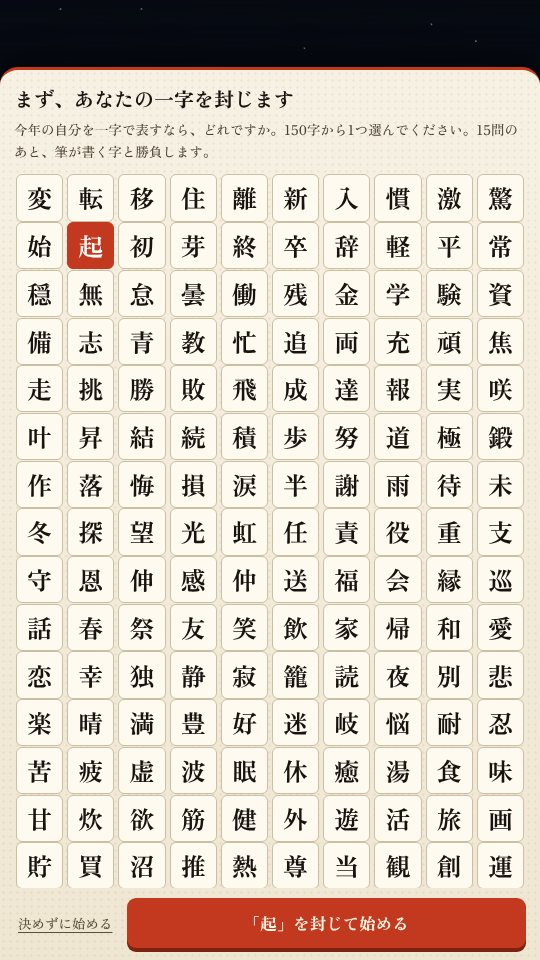
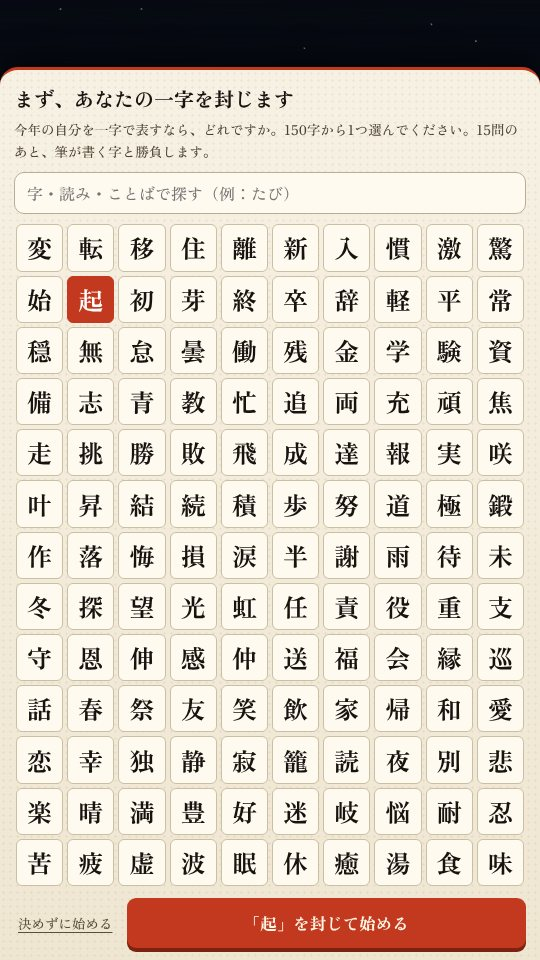
今年の一字、当てます：一覧に検索らんを追加、結果画面のスクロールを直す
- 一字を封じる一覧に検索らん（字・読み・ことばで探せる。Enterで1字なら選ぶ）
- 結果画面：iPhoneで指のスクロールが効かない原因になりうる設定を直す（画面がタッチを受け取る・すりガラスをはずす）
- 結果画面：下に続きがある時は「▼ 次点の字・シェアは下にあります」を出す
- 横向き・小さい画面で一覧の字がつぶれていたのを直す
- 説明ページの文と画像を更新

Claude-Session: https://claude.ai/code/session_012oTrt6jp9JbB1CXCuP4J8E

Changed region(s): [[0.0296, 0.1875, 0.9778, 0.9375]]

diff --git a/kotoshi-no-ichiji/index.html b/kotoshi-no-ichiji/index.html
@@ -71,8 +71,8 @@ button{font:inherit;color:inherit;cursor:pointer}
 #pick{align-items:flex-end;justify-content:center;background:rgba(7,11,20,.5)}
 .psheet{width:100%;max-width:560px;max-height:93%;display:flex;flex-direction:column;background:var(--washi);background-image:radial-gradient(rgba(120,96,60,.08) 1px,transparent 1.2px),linear-gradient(180deg,#f7f1e4,#efe6d2);background-size:7px 7px,100% 100%;border-radius:18px 18px 0 0;border-top:3px solid var(--shu);padding:14px 14px calc(12px + env(safe-area-inset-bottom));box-shadow:0 -10px 30px rgba(0,0,0,.45)}
 .psheet h2{margin:0;font-size:20px;font-weight:900}.psheet p{margin:6px 0 10px;font-size:13.5px;line-height:1.6;color:#4d4233}
-.kgrid{flex:1;min-height:0;overflow-y:auto;-webkit-overflow-scrolling:touch;display:grid;grid-template-columns:repeat(10,minmax(0,1fr));gap:4px;padding:2px;align-content:start}
-.kg{aspect-ratio:1;min-width:0;min-height:0;overflow:hidden;line-height:1;padding:0;border:1px solid #cbbfa3;border-radius:6px;background:#fffaf0;font-size:min(5.4vw,25px);font-weight:700;display:grid;place-items:center}
+.kgrid{flex:1;min-height:0;overflow-y:auto;-webkit-overflow-scrolling:touch;display:grid;grid-template-columns:repeat(10,minmax(0,1fr));grid-auto-rows:max-content;gap:4px;padding:2px;align-content:start}
+.kg{aspect-ratio:1;min-width:0;overflow:hidden;line-height:1;padding:0;border:1px solid #cbbfa3;border-radius:6px;background:#fffaf0;font-size:min(5.4vw,25px);font-weight:700;display:grid;place-items:center}
 .kg.sel{background:var(--shu);border-color:var(--shu);color:#fff}
 .pfoot{display:flex;gap:10px;align-items:center;margin-top:10px}.pfoot .btn{flex:1;font-size:min(16.5px,4.3vw);white-space:nowrap;padding:13px 6px}.pfoot .btn:disabled{background:#b9ad93;box-shadow:0 4px 0 #9a8f78;color:#f3ecdd}.pfoot .lnk{flex:none}
 #fuu{position:fixed;top:calc(10px + env(safe-area-inset-top));right:12px;z-index:4;width:40px;height:40px;border-radius:6px;background:var(--shu);color:#fff7e6;font-weight:900;font-size:21px;display:grid;place-items:center;box-shadow:0 2px 8px rgba(0,0,0,.5);transform:rotate(5deg);pointer-events:none}
@@ -87,11 +87,17 @@ button{font:inherit;color:inherit;cursor:pointer}
 .vhead{margin:0 0 9px;font-size:22px;font-weight:900;color:var(--shu);line-height:1.4}.vhead span{display:inline-block}
 .dvs{display:flex;align-items:center;justify-content:center;gap:12px;margin-bottom:8px}.dvs div{text-align:center;font-size:11.5px;font-weight:700;color:#6b5e49}.dvs canvas{width:86px;height:86px;display:block;background:#fffaf0;border:1px solid #d9cdb3;border-radius:8px;margin-bottom:3px}.dvs b{font-size:22px}
 @media (orientation:portrait) and (max-height:640px){.dcard canvas{width:84px;height:84px}#duel{bottom:calc(50px + env(safe-area-inset-bottom));gap:10px}#verdict b{font-size:36px}.lead{font-size:13.5px}}
+#more{position:fixed;left:50%;bottom:calc(14px + env(safe-area-inset-bottom));z-index:6;transform:translateX(-50%);padding:8px 16px;border-radius:999px;background:rgba(243,236,221,.94);color:#3a3128;font-size:13.5px;font-weight:700;white-space:nowrap;box-shadow:0 4px 16px rgba(0,0,0,.45);pointer-events:none;animation:bob 1.4s ease-in-out infinite}
+@keyframes bob{50%{transform:translate(-50%,-5px)}}
+/* 一字の一覧の検索 */
+.ksearch{display:flex;gap:6px;margin:0 0 8px}.ksearch input{flex:1;min-width:0;height:42px;padding:0 12px;font:inherit;font-size:16px;border:1.5px solid #b9ad93;border-radius:10px;background:#fffaf0;color:var(--sumi);-webkit-user-select:text;user-select:text;-webkit-appearance:none;appearance:none}
+.ksearch input:focus{outline:none;border-color:var(--shu)}.ksearch input::-webkit-search-cancel-button{-webkit-appearance:none;display:none}.ksearch button{flex:none;width:42px;height:42px;border:1.5px solid #b9ad93;border-radius:10px;background:#fffaf0;font-size:18px;padding:0}
+.knone{margin:6px 2px;font-size:13.5px;line-height:1.6;color:#6b5e49}
 #seen{color:#f8f1e1;font-size:26px;font-weight:900;letter-spacing:.3em;text-shadow:0 2px 10px #000;transition:opacity .5s}
 #skip{color:#cfc6b2;font-size:12.5px;letter-spacing:.2em;opacity:.8}
 #paper2d{max-width:min(86vw,60vh);border-radius:4px;box-shadow:0 10px 40px rgba(0,0,0,.5)}
 /* 結果 */
-#result{overflow-y:auto;-webkit-overflow-scrolling:touch;background:rgba(7,10,17,.86);-webkit-backdrop-filter:blur(3px);backdrop-filter:blur(3px);justify-content:center;align-items:flex-start}
+#result{pointer-events:auto;overscroll-behavior:contain;overflow-y:auto;background:rgba(7,10,17,.9);justify-content:center;align-items:flex-start}
 .rin{width:100%;max-width:520px;padding:calc(16px + env(safe-area-inset-top)) 14px calc(28px + env(safe-area-inset-bottom));display:flex;flex-direction:column;gap:12px}
 #card{width:100%;height:auto;border-radius:6px;box-shadow:0 10px 34px rgba(0,0,0,.55);display:block}
 .box{background:var(--washi);border-radius:10px;padding:13px 14px}
@@ -172,11 +178,14 @@ button{font:inherit;color:inherit;cursor:pointer}
   <div class="psheet">
     <h2>まず、あなたの一字を封じます</h2>
     <p>今年の自分を一字で表すなら、どれですか。150字から1つ選んでください。15問のあと、筆が書く字と勝負します。</p>
+    <div class="ksearch"><input id="kq" type="search" placeholder="字・読み・ことばで探す（例：たび）" autocomplete="off" enterkeyhint="search" aria-label="一字を探す"><button id="kqx" class="hide" aria-label="検索を消す">×</button></div>
+    <p class="knone hide" id="knone">見つかりませんでした。読み（たび）や、ことば（旅行・仕事）でも探せます。</p>
     <div class="kgrid" id="kgrid"></div>
     <div class="pfoot"><button class="lnk" id="pickSkip">決めずに始める</button><button class="btn" id="pickOk" disabled>字を選んでください</button></div>
   </div>
 </div>
 <div id="fuu" class="hide" aria-label="一字を封じてあります">封</div>
+<div id="more" class="hide">▼ 次点の字・シェアは下にあります</div>
 
 <div id="remain" class="hide"><span>のこり<b id="remN">150</b>字</span></div>
 <div id="ask" class="screen hide">
@@ -812,15 +821,32 @@ const Sound = { ctx: null, on: store('kotoshi.mute') !== '1',
 let state = 'title', picks = [], alt = [], qi = 0, gameT = 0, wait = -1, busy = false, result = null, rv = null, judge = null, mineCh = '', resultShownAt = 0, friendK = -1;
 let mineK = -1, pickSel = -1, demo = null; // mineK＝封じた字の番号（−1は封なし）／pickSel＝一覧で選択中の字／demo＝タイトルで筆が書いて見せている字
 const picksNow = () => picks.map(p => ({ q: p.q, a: p.a, alt: p.alt }));
-function setState(s) { state = s; $('title').classList.toggle('hide', s !== 'title'); $('ask').classList.toggle('hide', s !== 'ask'); $('remain').classList.toggle('hide', s !== 'ask'); $('reveal').classList.toggle('hide', s !== 'reveal'); $('result').classList.toggle('hide', s !== 'result'); $('mute').classList.toggle('hide', s === 'result' || s === 'pick'); $('pick').classList.toggle('hide', s !== 'pick'); $('fuu').classList.toggle('hide', !(s === 'ask' && mineK >= 0)); layoutCamera(false); }
+function setState(s) { state = s; $('title').classList.toggle('hide', s !== 'title'); $('ask').classList.toggle('hide', s !== 'ask'); $('remain').classList.toggle('hide', s !== 'ask'); $('reveal').classList.toggle('hide', s !== 'reveal'); $('result').classList.toggle('hide', s !== 'result'); $('mute').classList.toggle('hide', s === 'result' || s === 'pick'); $('pick').classList.toggle('hide', s !== 'pick'); $('more').classList.toggle('hide', s !== 'result'); $('fuu').classList.toggle('hide', !(s === 'ask' && mineK >= 0)); layoutCamera(false); }
 function reset(seed, mine) { // 最初からやり直す（タイトルを飛ばして1問目へ）。mine＝封じた字の番号（なければ −1）。リスタートもテストも同じものを使う
   state = 'ask'; mineK = mine >= 0 && mine < NK ? mine : -1; demo = null;
   picks = []; alt = Array(P.length).fill(false); qi = 0; wait = -1; busy = false; result = null; rv = null; judge = null; mineCh = ''; gameT = 0;
   clearPaper(); initFloat(seed || 1); brushRest(true); setState('ask'); showQuestion(); layoutCamera(true);
 }
-function openPick() { pickSel = -1; paintPick(); setState('pick'); $('kgrid').scrollTop = 0; }
+function openPick() { pickSel = -1; $('kq').value = ''; filterPick(); paintPick(); setState('pick'); $('kgrid').scrollTop = 0; }
 function paintPick() { [...$('kgrid').children].forEach((b, i) => b.classList.toggle('sel', i === pickSel)); const ok = $('pickOk'); ok.disabled = pickSel < 0; ok.textContent = pickSel < 0 ? '字を選んでください' : `「${KANJI[pickSel].c}」を封じて始める`; }
-function selectPick(i) { if (state !== 'pick' || !(i >= 0 && i < NK)) return; pickSel = i; Sound.tap(); paintPick(); }
+function selectPick(i) { if (state !== 'pick' || !(i >= 0 && i < NK)) return; pickSel = i; Sound.tap(); paintPick(); $('kq').blur(); }
+// 一覧の検索：字そのもの・読み（ひらがな/カタカナ）・説明文・その字につながる答えのことばで探す
+const hira = t => t.replace(/[\u30a1-\u30f6]/g, c => String.fromCharCode(c.charCodeAt(0) - 0x60));
+const SEEK_MORE = { mv: '引っ越し 引越し 一人暮らし ひっこし', nw: '入学 進学 就職 転職 転校 異動 新生活 しゅうしょく てんしょく', en: '卒業 退職 引退 そつぎょう', wk: '仕事 バイト 残業 しごと', sd: '勉強 受験 資格 試験 テスト べんきょう じゅけん', lv: '恋人 恋愛 彼氏 彼女 結婚 こいびと かれし かのじょ', os: '推し 推し活 オタク おし', tv: '旅行 遠出 海外 りょこう', et: 'ごはん グルメ', sl: '睡眠 寝る', ex: '運動 スポーツ 筋トレ', sv: '節約 貯金', sp: '買い物 出費', tr: '疲れ 寝不足', pt: '別れ', mt: '出会い' }; // ことばの追加（特徴ごと）
+const SEEK = KANJI.map(k => { const core = Object.entries(parseW(k.w)).filter(([, v]) => v >= 2).map(([t]) => t), words = core.map(t => SEEK_MORE[t] || '');
+  [...P, ...V].forEach(q => q.c.forEach(c => { const w = parseW(c.w); if (core.some(t => w[t] >= 2)) words.push(c.t); }));
+  return { yomi: hira(k.y).split('・').filter(Boolean), kun: k.y.split('・').filter(y => /^[\u3041-\u309f]+$/.test(y)), text: hira(k.s + ' ' + words.join(' ')) }; });
+const REN = { う: 'い', く: 'き', ぐ: 'ぎ', す: 'し', つ: 'ち', ぬ: 'に', ぶ: 'び', む: 'み', る: 'り' }; // 「おす」→「おし」のように、動詞の形が変わっても見つける
+function seekScore(i, qv) { // 0＝当てはまらない。大きいほど上に出す
+  if (qv.includes(KANJI[i].c)) return 3; const S2 = SEEK[i], kana = /^[\u3041-\u309f]+$/.test(qv);
+  if (S2.yomi.some(y => y.startsWith(qv) || (y.length >= 2 && qv.startsWith(y))) || S2.kun.some(y => (y.length >= 3 && /[うくすつぬむるぐぶい]$/.test(y) && qv.startsWith(y.slice(0, -1))) || (y.length >= 2 && qv.startsWith(y.slice(0, -1) + (REN[y.slice(-1)] || '×'))))) return 2; // 形が変わった読み（かわった・おし）は訓読みだけで見る
+  if ((!kana || qv.length >= 2) && S2.text.includes(qv)) return 1; return 0; }
+function filterPick() { const qv = hira($('kq').value.replace(/[\s　]/g, '')), btns = [...$('kgrid').children]; let n = 0;
+  const sh = document.querySelector('.psheet'); if (qv && !sh.style.minHeight && sh.offsetHeight) sh.style.minHeight = `min(${sh.offsetHeight}px, 100%)`; if (!qv) sh.style.minHeight = ''; // しぼっても一覧の高さが急に縮まないように（隠す前に測る）
+  btns.forEach((b, i) => { const sc = qv ? seekScore(i, qv) : 1; b.classList.toggle('hide', !sc); b.style.order = qv && sc ? String(3 - sc) : ''; if (sc) n++; });
+  $('knone').classList.toggle('hide', !!n); $('kqx').classList.toggle('hide', !qv); if (qv) $('kgrid').scrollTop = 0; return n; }
+function fitPick() { const v = window.visualViewport, el = $('pick'); if (!v) return; const kb = innerHeight - v.height; // スマホのキーボードが出ている間は、一覧をキーボードの上に収める
+  if (kb > 80 && state === 'pick') { el.style.top = v.offsetTop + 'px'; el.style.height = v.height + 'px'; el.style.bottom = 'auto'; } else { el.style.top = el.style.height = el.style.bottom = ''; } }
 function confirmPick(skip) { if (state !== 'pick' || (!skip && pickSel < 0)) return; if (skip) Sound.tap(); else Sound.stamp(); reset((Date.now() % 2147483646) | 0, skip ? -1 : pickSel); }
 // タイトル：筆が見本の字（リンクから来た人には友だちの字）を書いて見せる
 function startDemo(ki) { const k = Brush.prepare(STROKES[KANJI[ki].c], K_SIZE, { seed: seedOf(ki), paper: CONFIG.PAPER }); clearPaper(); demo = { ki, k, t: 0, prev: 0, T: clamp(k.total * 0.75, 2.0, 3.4), n: demo ? demo.n + 1 : 0 }; }
@@ -902,7 +928,7 @@ function showResult() {
   $('rNext').innerHTML = result.top.slice(1).map(i => `<div class="nx"><canvas width="116" height="116" data-k="${i}"></canvas><div><b>${KANJI[i].y}</b><span>${KANJI[i].s.split('。')[0]}。</span></div></div>`).join('');
   $('rNext').querySelectorAll('canvas').forEach(c => Brush.draw(c.getContext('2d'), STROKES[KANJI[+c.dataset.k].c], 6, 6, 104, { seed: seedOf(+c.dataset.k), color: CONFIG.INK, fast: true }));
   document.querySelectorAll('.jb').forEach(b => b.classList.remove('sel')); $('mine').classList.add('hide'); $('mineIn').value = ''; $('jmsg').textContent = '';
-  setState('result'); $('result').scrollTop = 0; resultShownAt = performance.now();
+  setState('result'); $('result').scrollTop = 0; resultShownAt = performance.now(); $('more').classList.toggle('hide', $('result').scrollHeight <= $('result').clientHeight + 60); // 下に続きがある時だけ合図を出す
   if (document.fonts && document.fonts.load) document.fonts.load('900 40px "Zen Old Mincho"').then(() => { if (state === 'result') drawCard($('card'), ki, cardNote(), !!d && d.verdict === 'hit'); }).catch(() => {});
 }
 const cardNote = () => { const d = result.duel; return d ? (d.verdict === 'hit' ? '封じた一字と同じでした' : `封じた一字は「${KANJI[d.k].c}」（150字中${d.rank}位）`) : mineCh ? `自分で選ぶなら「${mineCh}」` : ''; }; // カードの字の下に足す一行
@@ -941,6 +967,10 @@ async function saveImage() {
 function begin() { if (!resultReady()) return; Sound.init(); Sound.resume(); Sound.tap(); openPick(); }
 $('kgrid').innerHTML = KANJI.map((k, i) => `<button class="kg" data-i="${i}">${k.c}</button>`).join('');
 $('kgrid').addEventListener('click', e => { const b = e.target.closest('.kg'); if (b) selectPick(+b.dataset.i); });
+$('kq').addEventListener('input', filterPick); $('kq').addEventListener('keydown', e => { if (e.key !== 'Enter') return; e.preventDefault(); const vis = [...$('kgrid').children].filter(b => !b.classList.contains('hide')); if (vis.length === 1) selectPick(+vis[0].dataset.i); else $('kq').blur(); });
+$('kqx').addEventListener('click', () => { $('kq').value = ''; filterPick(); });
+if (window.visualViewport) { visualViewport.addEventListener('resize', fitPick); visualViewport.addEventListener('scroll', fitPick); }
+$('result').addEventListener('scroll', () => { if ($('result').scrollTop > 60) $('more').classList.add('hide'); }, { passive: true });
 $('pickOk').addEventListener('click', () => confirmPick(false)); $('pickSkip').addEventListener('click', () => confirmPick(true));
 $('startBtn').addEventListener('click', begin); $('againBtn').addEventListener('click', begin);
 $('choices').addEventListener('click', e => { const b = e.target.closest('.ch'); if (b) choose(+b.dataset.a); });
@@ -985,7 +1015,7 @@ window.__TEST__ = {
   keys: [],
   randomInput(r) { // タップだけのゲームなので、今の画面でできる操作を1つ選ぶ
     if (state === 'title') begin();
-    else if (state === 'pick') { if (r < 0.2) confirmPick(true); else { selectPick(Math.floor(r * NK)); confirmPick(false); } }
+    else if (state === 'pick') { if (r < 0.1) { $('kq').value = ['たび', '忙', 'しごと', 'かわった', 'zz'][Math.floor(r * 50)]; filterPick(); } else if (r < 0.25) confirmPick(true); else { $('kq').value = ''; filterPick(); selectPick(Math.floor(r * NK)); confirmPick(false); } }
     else if (state === 'ask' && !busy) { if (r > 0.93) swap(); else if (r > 0.88) back(); else choose(Math.floor(r / 0.88 * 4)); }
     else if (state === 'reveal' && r > 0.97) skipReveal();
     else if (state === 'result') { if (r < 0.3 && !result.duel) setJudge(['hit', 'near', 'miss'][Math.floor(r / 0.1)]); }
@@ -1003,7 +1033,7 @@ window.__TEST__ = {
     const want = state === 'ask' ? CONFIG.KEEP[Math.min(picks.length, CONFIG.KEEP.length - 1)] : null; if (want !== null && fl.filter(f => f.alive).length !== want) v.push('のこりの字数が合わない ' + fl.filter(f => f.alive).length + '≠' + want);
     if (state === 'result') { if (!result || result.top.length !== 3) v.push('結果がない'); else if (result.why.length !== P.length || !result.why.every(w => fin(w.v)) || !result.shape.every(fin)) v.push('15問の効き方か一年の形が数でない'); else { const r = S.rank(picksNow()); if (r[0][1] !== result.top[0]) v.push('結果の字が採点と合わない'); if (r[0][2] === 0 && !result.core.length) v.push('中心の答えが出ていない'); if (!fin(r[0][0])) v.push('点が数でない'); if (picks.length !== P.length) v.push('15問そろわずに結果が出た');
       const d = result.duel; if ((mineK >= 0) !== !!d) v.push('封じた字と勝負の有無が合わない'); else if (d) { const pos = r.findIndex(x => x[1] === mineK) + 1; if (pos !== d.rank) v.push('封じた字の順位が採点と合わない'); if (d.verdict !== (pos === 1 ? 'hit' : pos <= 3 ? 'near' : 'miss')) v.push('勝負の判定が順位と合わない'); if ((d.verdict === 'hit') !== (d.k === result.top[0])) v.push('的中なのに字がちがう'); } } }
-    if (state === 'title' && demo && !(fin(demo.t) && demo.t >= 0)) v.push('タイトルの見本の時間が数でない'); if (state === 'pick' && pickSel >= NK) v.push('選んだ字の番号がおかしい');
+    if (state === 'title' && demo && !(fin(demo.t) && demo.t >= 0)) v.push('タイトルの見本の時間が数でない'); if (state === 'pick' && pickSel >= NK) v.push('選んだ字の番号がおかしい'); if (state === 'pick' && !$('kq').value && $('kgrid').querySelectorAll('.hide').length) v.push('検索が空なのに隠れた字がある');
     return v; },
   rank: ans => S.rank(ans.map((a, q) => ({ q, a, alt: false }))).slice(0, 5).map(x => KANJI[x[1]].c + x[0].toFixed(2)),
   draw: { washi, seal, wrapText, drawCard, Brush, KANJI, STROKES, seedOf, CONFIG }, // シェア用の画像を作る道具から使う

diff --git a/games/kotoshi-no-ichiji/index.html b/games/kotoshi-no-ichiji/index.html
@@ -41,11 +41,11 @@
 <h2>どんなゲーム？</h2>
 <p>今年がどんな一年だったかを、漢字一字で当てる診断ゲームです。質問は15問で、どれも4つの答えから選びます。聞かれるのは、スマホの写真にいちばん多く写っているもの、休みの日の過ごし方、いちばんこたえたことなど、今年実際にあったことだけです。</p><p>質問の前に、150字の一覧から「今年の自分はこれ」と思う一字を選んで封じておけます。15問のあとに筆が書いた字と見くらべて、同じなら「的中」、次点の2字に入っていれば「おしい」です。どちらでもない時は、150字の中で何位だったかが出ます。決めずに始めることもできます。</p><p>夜の舞台には、150の漢字が宙に浮かんでいます。答えるたびに当てはまらない字が消えていき、「のこり◯字」の数字が減っていきます。15問目を答え終わると3字までしぼられ、そこから先は大きな筆の出番です。立ててある紙に、筆が書き順どおりに一字を書き上げます。</p><p>結果の画面では、その字の中心になったあなたの答え、15問から見えた「一年の形」、15問の答えがそれぞれその字をどれだけ指していたか、それから次点だった2字を見られます。字を封じていた時は、勝負の結果がいちばん上に出ます。外れた時は、封じた字がなぜ選ばれなかったのかも書いてあります。封じなかった時は、最後に「当たり」「おしい」「ちがう」で答え合わせをします。</p>
 <div class="shots"><figure><img src="/games/kotoshi-no-ichiji/title.jpg" alt="タイトル画面。夜の舞台に立てた紙に、大きな筆が見本の字を書いている" loading="lazy" width="540" height="960"><figcaption>タイトル画面。筆が見本の字を書いている</figcaption></figure><figure><img src="/games/kotoshi-no-ichiji/pick.jpg" alt="一字を封じる画面。150の漢字がならび、選んだ字が赤くなっている" loading="lazy" width="540" height="960"><figcaption>先に、自分の一字を封じる</figcaption></figure><figure><img src="/games/kotoshi-no-ichiji/play.jpg" alt="質問の画面。上半分に漢字が宙に浮かび、下半分に質問と4つの答えがならんでいる" loading="lazy" width="540" height="960"><figcaption>答えるたびに、候補の字がしぼられる</figcaption></figure><figure><img src="/games/kotoshi-no-ichiji/write.jpg" alt="結果発表の画面。立てた紙に、大きな筆が字を書いている" loading="lazy" width="540" height="960"><figcaption>最後は大きな筆が書き上げる</figcaption></figure><figure><img src="/games/kotoshi-no-ichiji/duel.jpg" alt="勝負の画面。筆が書いた字の下に、封じた一字の札と「的中」の文字が出ている" loading="lazy" width="540" height="960"><figcaption>封を開けて勝負。同じ字なら「的中」</figcaption></figure><figure><img src="/games/kotoshi-no-ichiji/result.jpg" alt="結果の画面。筆で書かれた一字のカードに「的中」の印が押され、下に勝負の結果がならんでいる" loading="lazy" width="540" height="960"><figcaption>結果のカード。画像で保存できる</figcaption></figure></div>
-<h2>遊び方</h2><ol class="steps"><li>「はじめる」を押すと、150字の一覧が出ます。今年の自分を表すと思う一字を選んで「封じて始める」を押します。決めたくない時は「決めずに始める」で進めます。</li><li>4つの答えから、いちばん近いものをタップ（パソコンはクリック）します。</li><li>どれも当てはまらない時は「どれも違う」を押すと、別の質問に入れ替わります。入れ替えは1問につき1回です。</li><li>押しまちがえた時は「ひとつ戻る」で前の質問に戻れます。</li><li>15問答えると、筆が一字を書きます。字を封じていた時は、そのあと封が開いて勝負の結果が出ます。途中で画面をタップすると早送りできます。</li><li>結果を見たら、Xでシェアしたり、カードを画像で保存したりできます。字を封じなかった時は、ここで答え合わせもします。</li></ol>
+<h2>遊び方</h2><ol class="steps"><li>「はじめる」を押すと、150字の一覧が出ます。今年の自分を表すと思う一字を選んで「封じて始める」を押します。字が見つからない時は、一覧の上の検索らんに読み（たび）やことば（仕事）を入れると、当てはまる字だけにしぼれます。決めたくない時は「決めずに始める」で進めます。</li><li>4つの答えから、いちばん近いものをタップ（パソコンはクリック）します。</li><li>どれも当てはまらない時は「どれも違う」を押すと、別の質問に入れ替わります。入れ替えは1問につき1回です。</li><li>押しまちがえた時は「ひとつ戻る」で前の質問に戻れます。</li><li>15問答えると、筆が一字を書きます。字を封じていた時は、そのあと封が開いて勝負の結果が出ます。途中で画面をタップすると早送りできます。</li><li>結果を見たら、Xでシェアしたり、カードを画像で保存したりできます。字を封じなかった時は、ここで答え合わせもします。</li></ol>
 <h2>しくみ</h2>
 <p>答えにはそれぞれ、「引っ越した」「よく寝た」「挑戦した」のような、その年の特徴がひもづいています。漢字のほうも、2つか3つの特徴の組み合わせで決めてあります。たとえば「忙しい」と「楽しい」がそろうと「充」、「挑戦」と「うまくいかなかった」がそろうと「敗」です。</p><p>候補になるのは、その字の中心になる答えを、あなたがじかに選んでいる字だけです。たとえば「読」は、「いちばん長く一緒にいた相手」で「自分ひとり」、「いちばん夢中になったもの」で「作品」を選んだ人にしか出ません。こういう字が、1人につき平均18字ほど残ります。</p><p>その中から1字を選ぶ時に、15問の答えをぜんぶ使います。特徴どうしには近い・遠いがあって、たとえば「忙しい」「疲れた」「任された」は近い仲間です。こういう答えが重なると、忙しさに近い字がまとめて少しずつ上がります。反対に「家でゆっくり」は、その字を少し下げます。1問だけが強く効きすぎないようにもしてあるので、たくさんの答えが少しずつ指している字ほど選ばれやすくなっています。</p><p>くらべる相手は、ふつうの人です。その字が、ふつうの人とくらべてあなたにどれだけ強く当てはまるかを見て、いちばん大きい字を出します。点の合計だけで決めると、たくさんの質問に関係する字ばかりが出てしまうからです。</p><p>出てくる字の割合を、こちらで調整することはしていません。まじめな字も少し笑える字も、あなたの答えだけで決まります。結果に出る「約◯人に1人」は、いろいろな答え方の人を30万人ぶん計算で試した、おおよその数です。</p><p>封じた字との勝負は、同じ計算の順位で決めています。150字を当てはまる順にならべて、封じた字が1位なら「的中」、2位か3位なら「おしい」、4位より下ならその順位を出します。どの字を封じても、質問や計算は変わりません。</p><p>書き順のデータは <a href="https://kanjivg.tagaini.net/" target="_blank" rel="noopener">KanjiVG</a>（© Ulrich Apel、CC BY-SA 3.0）を使っています。筆の太さやかすれは、そのデータをもとにゲームの中で作っています。なお、日本漢字能力検定協会が毎年発表している「今年の漢字®」とは関係のない、個人が作ったあそびの診断です。</p>
-<h2>楽しみ方のヒント</h2><ul class="tips"><li>4つとも合わない質問は、無理に選ばず「どれも違う」で入れ替えられます。</li><li>結果がしっくりこない時は、次点の2字も見てみてください。そちらのほうが近いこともあります。</li><li>家族や友だちと出た字をくらべるのがおすすめです。入れ替えをしなければ質問は同じ15問なので、どこで分かれたかを話せます。</li><li>外れた時は、封じた字の順位と、足りなかった答えが出ます。その答えを選ぶとどう変わるか、もう一度遊んで試せます。</li><li>一覧の150字が画面に入りきらない時は、下にスクロールすると残りの字が出ます。</li><li>シェアされたリンクから開くと、タイトル画面で筆がまず友だちの一字を書いて見せます。</li></ul>
-<h2>作っていて変えたところ</h2><p>いちばん時間がかかったのは、字の選び方です。最初は答えの点をそのまま足して、合計がいちばん高い字を出していました。ところが、たくさんの人のぶんを計算で試すと同じ字ばかりが出て、候補の4分の1ほどはどう答えても1位になれませんでした。そこで、ふつうの人とくらべてどれだけ強く当てはまるかで選ぶ形に作り直しています。</p><p>漢字は、はじめ215字を用意していました。似た意味の字がならぶと結果のちがいがわかりにくかったので、150字までしぼりました。「太」は体型をからかう形になるのでやめて、「家でよく食べた一年」は「炊」にしています。</p><p>公開した日に自分で遊んでみたら、ほんの一部の答えだけで字が決まっている感じがしました。計算で試すと、出た字に合っていた答えは15問のうち平均2.6問しかありませんでした。そこで、近い特徴どうしで点を分け合う形に変えて、今は平均9問ほどが出た字を指しています。結果の画面に「一年の形」と15問それぞれの効き方を出すようにしたのも、この時です。</p><p>ところがこの直しで、答えていないことを表す字が出るようになってしまいました。作品に夢中と答えていないのに「読」が出る、というふうにです。近い特徴から点を集めすぎたのが原因でした。今は、字の中心になる答えをじかに選んでいる字だけを候補にして、結果の画面にもその答えを出しています。</p><p>発表の場面も直しました。作ったばかりの時は、最後に残った3字のうち1位の字だけが大きく金色に光っていて、筆が書く前に答えがわかってしまいました。今は3字とも同じ大きさ、同じ明るさです。</p><p>公開して3日後に、答え合わせの形を変えました。前は結果を見たあとで「当たり」「ちがう」を押すだけでした。筆の字を見てから決められるので、当たったのかどうかがあいまいになります。そこで、質問の前に自分の一字を封じておく形を足しました。先に決めてあるので、同じ字が出れば言いのがれなしの的中です。</p><p>タイトル画面も変えています。前は題名とボタンだけで、筆が字を書くところは15問答えるまで見られませんでした。今は開いてすぐ、筆が見本の字を書きはじめます。</p>
+<h2>楽しみ方のヒント</h2><ul class="tips"><li>4つとも合わない質問は、無理に選ばず「どれも違う」で入れ替えられます。</li><li>結果がしっくりこない時は、次点の2字も見てみてください。そちらのほうが近いこともあります。</li><li>家族や友だちと出た字をくらべるのがおすすめです。入れ替えをしなければ質問は同じ15問なので、どこで分かれたかを話せます。</li><li>外れた時は、封じた字の順位と、足りなかった答えが出ます。その答えを選ぶとどう変わるか、もう一度遊んで試せます。</li><li>検索らんは、字そのもの（旅）、読み（たび・いそがしい）、ことば（旅行・推し・引っ越し）のどれでも探せます。</li><li>結果の画面は下に続いています。次点の字、15問の答え、シェアのボタンは、下にスクロールすると出てきます。</li><li>シェアされたリンクから開くと、タイトル画面で筆がまず友だちの一字を書いて見せます。</li></ul>
+<h2>作っていて変えたところ</h2><p>いちばん時間がかかったのは、字の選び方です。最初は答えの点をそのまま足して、合計がいちばん高い字を出していました。ところが、たくさんの人のぶんを計算で試すと同じ字ばかりが出て、候補の4分の1ほどはどう答えても1位になれませんでした。そこで、ふつうの人とくらべてどれだけ強く当てはまるかで選ぶ形に作り直しています。</p><p>漢字は、はじめ215字を用意していました。似た意味の字がならぶと結果のちがいがわかりにくかったので、150字までしぼりました。「太」は体型をからかう形になるのでやめて、「家でよく食べた一年」は「炊」にしています。</p><p>公開した日に自分で遊んでみたら、ほんの一部の答えだけで字が決まっている感じがしました。計算で試すと、出た字に合っていた答えは15問のうち平均2.6問しかありませんでした。そこで、近い特徴どうしで点を分け合う形に変えて、今は平均9問ほどが出た字を指しています。結果の画面に「一年の形」と15問それぞれの効き方を出すようにしたのも、この時です。</p><p>ところがこの直しで、答えていないことを表す字が出るようになってしまいました。作品に夢中と答えていないのに「読」が出る、というふうにです。近い特徴から点を集めすぎたのが原因でした。今は、字の中心になる答えをじかに選んでいる字だけを候補にして、結果の画面にもその答えを出しています。</p><p>発表の場面も直しました。作ったばかりの時は、最後に残った3字のうち1位の字だけが大きく金色に光っていて、筆が書く前に答えがわかってしまいました。今は3字とも同じ大きさ、同じ明るさです。</p><p>公開して3日後に、答え合わせの形を変えました。前は結果を見たあとで「当たり」「ちがう」を押すだけでした。筆の字を見てから決められるので、当たったのかどうかがあいまいになります。そこで、質問の前に自分の一字を封じておく形を足しました。先に決めてあるので、同じ字が出れば言いのがれなしの的中です。</p><p>タイトル画面も変えています。前は題名とボタンだけで、筆が字を書くところは15問答えるまで見られませんでした。今は開いてすぐ、筆が見本の字を書きはじめます。</p><p>その日のうちに、一覧に検索らんを足しました。150字がならぶと、目当ての字がなかなか見つからなかったからです。結果の画面がiPhoneで下にスクロールしにくかったのも、あわせて直しています。</p>
 <div class="play-row"><a class="btn" href="/kotoshi-no-ichiji/">▶ 今年の一字、当てますを遊ぶ</a></div>
 <h2>にている遊びのゲーム</h2><ul class="grid"><li><a data-google-vignette="false" class="card" href="/games/unmei-no-machi/"><div class="th"><img src="/games/unmei-no-machi/thumb.jpg" alt="" loading="lazy" width="600" height="315"></div><div class="tx"><b>運命の町、当てます</b><span>20の質問で、あなたの運命の町を当てます。</span><em>2026年11月16日 公開</em></div></a></li><li><a data-google-vignette="false" class="card" href="/games/shusshin-ken/"><div class="th"><img src="/games/shusshin-ken/thumb.jpg" alt="" loading="lazy" width="600" height="315"></div><div class="tx"><b>出身地、当てます</b><span>2択の質問で、出身地を当てます。</span><em>2026年10月27日 公開</em></div></a></li><li><a data-google-vignette="false" class="card" href="/games/kokumindo/"><div class="th"><img src="/games/kokumindo/thumb.jpg" alt="" loading="lazy" width="600" height="315"></div><div class="tx"><b>国民度チェック</b><span>日の丸を一筆で描いて、国民度を測る</span><em>2026年10月29日 公開</em></div></a></li></ul>
 <div class="ad-box"><p class="lbl">広告</p>
